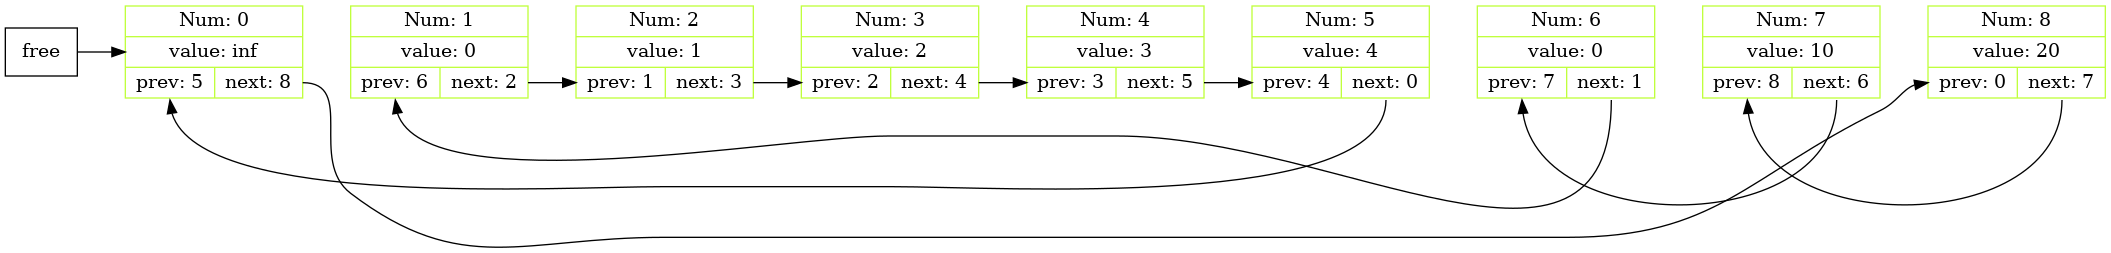
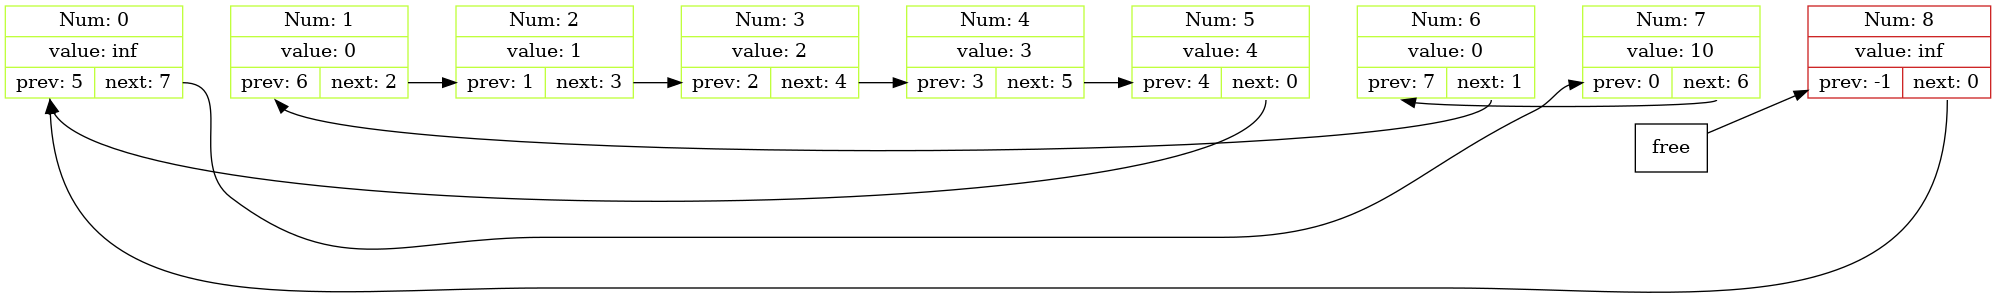
alpha

diff --git a/dump.html b/dump.html
@@ -1,33 +1,45 @@
 <pre>
 
+<h2>DUMP no:0</h2>
+
+capasity: 1	size: 0
+	 [0]:	inf	nt: 0	pr: 0
+	*[1]:	inf	nt: 0	pr: -1
+	<img src="source/pic0.png" alt="Dump no: 0" height="150">
 <h2>DUMP no:1</h2>
 
-capasity:2	size:2
-	 [0]:	inf	nt: 1	pr: 2
-	 [1]:	0	nt: 2	pr: 0
-	 [2]:	1	nt: 0	pr: 1
+capasity: 1	size: 1
+	 [0]:	inf	nt: 1	pr: 1
+	 [1]:	0	nt: 0	pr: 0
 	<img src="source/pic1.png" alt="Dump no: 1" height="150">
 <h2>DUMP no:2</h2>
 
-capasity:4	size:3
+capasity: 2	size: 2
+	 [0]:	inf	nt: 1	pr: 2
+	 [1]:	0	nt: 2	pr: 0
+	 [2]:	1	nt: 0	pr: 1
+	<img src="source/pic2.png" alt="Dump no: 2" height="150">
+<h2>DUMP no:3</h2>
+
+capasity: 4	size: 3
 	 [0]:	inf	nt: 1	pr: 3
 	 [1]:	0	nt: 2	pr: 0
 	 [2]:	1	nt: 3	pr: 1
 	 [3]:	2	nt: 0	pr: 2
 	*[4]:	inf	nt: 0	pr: -1
-	<img src="source/pic2.png" alt="Dump no: 2" height="150">
-<h2>DUMP no:3</h2>
+	<img src="source/pic3.png" alt="Dump no: 3" height="150">
+<h2>DUMP no:4</h2>
 
-capasity:4	size:4
+capasity: 4	size: 4
 	 [0]:	inf	nt: 1	pr: 4
 	 [1]:	0	nt: 2	pr: 0
 	 [2]:	1	nt: 3	pr: 1
 	 [3]:	2	nt: 4	pr: 2
 	 [4]:	3	nt: 0	pr: 3
-	<img src="source/pic3.png" alt="Dump no: 3" height="150">
-<h2>DUMP no:4</h2>
+	<img src="source/pic4.png" alt="Dump no: 4" height="150">
+<h2>DUMP no:5</h2>
 
-capasity:8	size:5
+capasity: 8	size: 5
 	 [0]:	inf	nt: 1	pr: 5
 	 [1]:	0	nt: 2	pr: 0
 	 [2]:	1	nt: 3	pr: 1
@@ -37,10 +49,10 @@ capasity:8	size:5
 	*[6]:	inf	nt: 7	pr: -1
 	*[7]:	inf	nt: 8	pr: -1
 	*[8]:	inf	nt: 0	pr: -1
-	<img src="source/pic4.png" alt="Dump no: 4" height="150">
-<h2>DUMP no:5</h2>
+	<img src="source/pic5.png" alt="Dump no: 5" height="150">
+<h2>DUMP no:6</h2>
 
-capasity:8	size:6
+capasity: 8	size: 6
 	 [0]:	inf	nt: 6	pr: 5
 	 [1]:	0	nt: 2	pr: 6
 	 [2]:	1	nt: 3	pr: 1
@@ -50,10 +62,10 @@ capasity:8	size:6
 	 [6]:	0	nt: 1	pr: 0
 	*[7]:	inf	nt: 8	pr: -1
 	*[8]:	inf	nt: 0	pr: -1
-	<img src="source/pic5.png" alt="Dump no: 5" height="150">
-<h2>DUMP no:6</h2>
+	<img src="source/pic6.png" alt="Dump no: 6" height="150">
+<h2>DUMP no:7</h2>
 
-capasity:8	size:7
+capasity: 8	size: 7
 	 [0]:	inf	nt: 7	pr: 5
 	 [1]:	0	nt: 2	pr: 6
 	 [2]:	1	nt: 3	pr: 1
@@ -63,10 +75,10 @@ capasity:8	size:7
 	 [6]:	0	nt: 1	pr: 7
 	 [7]:	10	nt: 6	pr: 0
 	*[8]:	inf	nt: 0	pr: -1
-	<img src="source/pic6.png" alt="Dump no: 6" height="150">
-<h2>DUMP no:7</h2>
+	<img src="source/pic7.png" alt="Dump no: 7" height="150">
+<h2>DUMP no:8</h2>
 
-capasity:8	size:8
+capasity: 8	size: 8
 	 [0]:	inf	nt: 8	pr: 5
 	 [1]:	0	nt: 2	pr: 6
 	 [2]:	1	nt: 3	pr: 1
@@ -76,10 +88,10 @@ capasity:8	size:8
 	 [6]:	0	nt: 1	pr: 7
 	 [7]:	10	nt: 6	pr: 8
 	 [8]:	20	nt: 7	pr: 0
-	<img src="source/pic7.png" alt="Dump no: 7" height="150">
-<h2>DUMP no:8</h2>
+	<img src="source/pic8.png" alt="Dump no: 8" height="150">
+<h2>DUMP no:9</h2>
 
-capasity:16	size:9
+capasity: 16	size: 9
 	 [0]:	inf	nt: 9	pr: 5
 	 [1]:	0	nt: 2	pr: 6
 	 [2]:	1	nt: 3	pr: 1
@@ -97,31 +109,10 @@ capasity:16	size:9
 	*[14]:	inf	nt: 15	pr: -1
 	*[15]:	inf	nt: 16	pr: -1
 	*[16]:	inf	nt: 0	pr: -1
-	<img src="source/pic8.png" alt="Dump no: 8" height="150">
-<h2>DUMP no:9</h2>
-
-capasity:16	size:10
-	 [0]:	inf	nt: 10	pr: 5
-	 [1]:	0	nt: 2	pr: 6
-	 [2]:	1	nt: 3	pr: 1
-	 [3]:	2	nt: 4	pr: 2
-	 [4]:	3	nt: 5	pr: 3
-	 [5]:	4	nt: 0	pr: 4
-	 [6]:	0	nt: 1	pr: 7
-	 [7]:	10	nt: 6	pr: 8
-	 [8]:	20	nt: 7	pr: 9
-	 [9]:	30	nt: 8	pr: 10
-	 [10]:	40	nt: 9	pr: 0
-	*[11]:	inf	nt: 12	pr: -1
-	*[12]:	inf	nt: 13	pr: -1
-	*[13]:	inf	nt: 14	pr: -1
-	*[14]:	inf	nt: 15	pr: -1
-	*[15]:	inf	nt: 16	pr: -1
-	*[16]:	inf	nt: 0	pr: -1
 	<img src="source/pic9.png" alt="Dump no: 9" height="150">
 <h2>DUMP no:10</h2>
 
-capasity:16	size:10
+capasity: 16	size: 10
 	 [0]:	inf	nt: 10	pr: 5
 	 [1]:	0	nt: 2	pr: 6
 	 [2]:	1	nt: 3	pr: 1
@@ -142,7 +133,28 @@ capasity:16	size:10
 	<img src="source/pic10.png" alt="Dump no: 10" height="150">
 <h2>DUMP no:11</h2>
 
-capasity:16	size:9
+capasity: 16	size: 10
+	 [0]:	inf	nt: 10	pr: 5
+	 [1]:	0	nt: 2	pr: 6
+	 [2]:	1	nt: 3	pr: 1
+	 [3]:	2	nt: 4	pr: 2
+	 [4]:	3	nt: 5	pr: 3
+	 [5]:	4	nt: 0	pr: 4
+	 [6]:	0	nt: 1	pr: 7
+	 [7]:	10	nt: 6	pr: 8
+	 [8]:	20	nt: 7	pr: 9
+	 [9]:	30	nt: 8	pr: 10
+	 [10]:	40	nt: 9	pr: 0
+	*[11]:	inf	nt: 12	pr: -1
+	*[12]:	inf	nt: 13	pr: -1
+	*[13]:	inf	nt: 14	pr: -1
+	*[14]:	inf	nt: 15	pr: -1
+	*[15]:	inf	nt: 16	pr: -1
+	*[16]:	inf	nt: 0	pr: -1
+	<img src="source/pic11.png" alt="Dump no: 11" height="150">
+<h2>DUMP no:12</h2>
+
+capasity: 16	size: 9
 	 [0]:	inf	nt: 10	pr: 5
 	*[1]:	inf	nt: 11	pr: -1
 	 [2]:	1	nt: 3	pr: 6
@@ -160,10 +172,10 @@ capasity:16	size:9
 	*[14]:	inf	nt: 15	pr: -1
 	*[15]:	inf	nt: 16	pr: -1
 	*[16]:	inf	nt: 0	pr: -1
-	<img src="source/pic11.png" alt="Dump no: 11" height="150">
-<h2>DUMP no:12</h2>
+	<img src="source/pic12.png" alt="Dump no: 12" height="150">
+<h2>DUMP no:13</h2>
 
-capasity:16	size:8
+capasity: 16	size: 8
 	 [0]:	inf	nt: 10	pr: 5
 	*[1]:	inf	nt: 11	pr: -1
 	*[2]:	inf	nt: 1	pr: -1
@@ -181,10 +193,10 @@ capasity:16	size:8
 	*[14]:	inf	nt: 15	pr: -1
 	*[15]:	inf	nt: 16	pr: -1
 	*[16]:	inf	nt: 0	pr: -1
-	<img src="source/pic12.png" alt="Dump no: 12" height="150">
-<h2>DUMP no:13</h2>
+	<img src="source/pic13.png" alt="Dump no: 13" height="150">
+<h2>DUMP no:14</h2>
 
-capasity:16	size:7
+capasity: 16	size: 7
 	 [0]:	inf	nt: 10	pr: 5
 	*[1]:	inf	nt: 11	pr: -1
 	*[2]:	inf	nt: 1	pr: -1
@@ -202,10 +214,10 @@ capasity:16	size:7
 	*[14]:	inf	nt: 15	pr: -1
 	*[15]:	inf	nt: 16	pr: -1
 	*[16]:	inf	nt: 0	pr: -1
-	<img src="source/pic13.png" alt="Dump no: 13" height="150">
-<h2>DUMP no:14</h2>
+	<img src="source/pic14.png" alt="Dump no: 14" height="150">
+<h2>DUMP no:15</h2>
 
-capasity:16	size:6
+capasity: 16	size: 6
 	 [0]:	inf	nt: 10	pr: 5
 	*[1]:	inf	nt: 11	pr: -1
 	*[2]:	inf	nt: 1	pr: -1
@@ -223,10 +235,10 @@ capasity:16	size:6
 	*[14]:	inf	nt: 15	pr: -1
 	*[15]:	inf	nt: 16	pr: -1
 	*[16]:	inf	nt: 0	pr: -1
-	<img src="source/pic14.png" alt="Dump no: 14" height="150">
-<h2>DUMP no:15</h2>
+	<img src="source/pic15.png" alt="Dump no: 15" height="150">
+<h2>DUMP no:16</h2>
 
-capasity:16	size:6
+capasity: 16	size: 6
 	 [0]:	inf	nt: 1	pr: 6
 	 [1]:	40	nt: 2	pr: 0
 	 [2]:	30	nt: 3	pr: 1
@@ -244,4 +256,4 @@ capasity:16	size:6
 	*[14]:	inf	nt: 15	pr: -1
 	*[15]:	inf	nt: 16	pr: -1
 	*[16]:	inf	nt: 0	pr: -1
-	<img src="source/pic15.png" alt="Dump no: 15" height="150">
+	<img src="source/pic16.png" alt="Dump no: 16" height="150">

diff --git a/clist.cpp b/clist.cpp
@@ -7,13 +7,6 @@
 const char* fdump = "dump.html";
 const char* gdump = "dmp.dot";
 
-static bool iseq (const Elem_t a, const Elem_t b) {
-    if (fabs(a - b) < 10e-8) {
-        return true;
-    }
-    return false;
-}
-
 void listCtor (List* lst, const size_t len) {
     if (lst == NULL) {
         return;
@@ -164,13 +157,13 @@ void listDump (List* lst) {
 
     FILE* hdump = fopen(fdump, "a");
 
-    if (iter == 1) {
+    if (iter == 0) {
         fclose(hdump);
         hdump = fopen(fdump, "w");
         fprintf(hdump, "<pre>\n\n");
     }
 
-    fprintf(hdump, "<h2>DUMP no:%ld</h2>\n\ncapasity:%ld\tsize:%ld\n", iter, lst->capacity, lst->size);
+    fprintf(hdump, "<h2>DUMP no:%ld</h2>\n\ncapasity: %ld\tsize: %ld\n", iter, lst->capacity, lst->size);
 
     for (size_t i = 0; i <= lst->capacity; i++) {
         fprintf(hdump, "\t%c[%ld]:\t%lg\tnt: %ld\tpr: %ld\n", (lst->arr[i].prev != EMPTY) ? (' ') : ('*'),

diff --git a/main.cpp b/main.cpp
@@ -5,6 +5,8 @@
 int main () {
     List list;
     listNew(&list);
+    listDump(&list);
+    
     for (size_t i = 0; i < 5; i++) {
         listAdd(&list, i, i);
         listDump(&list);
